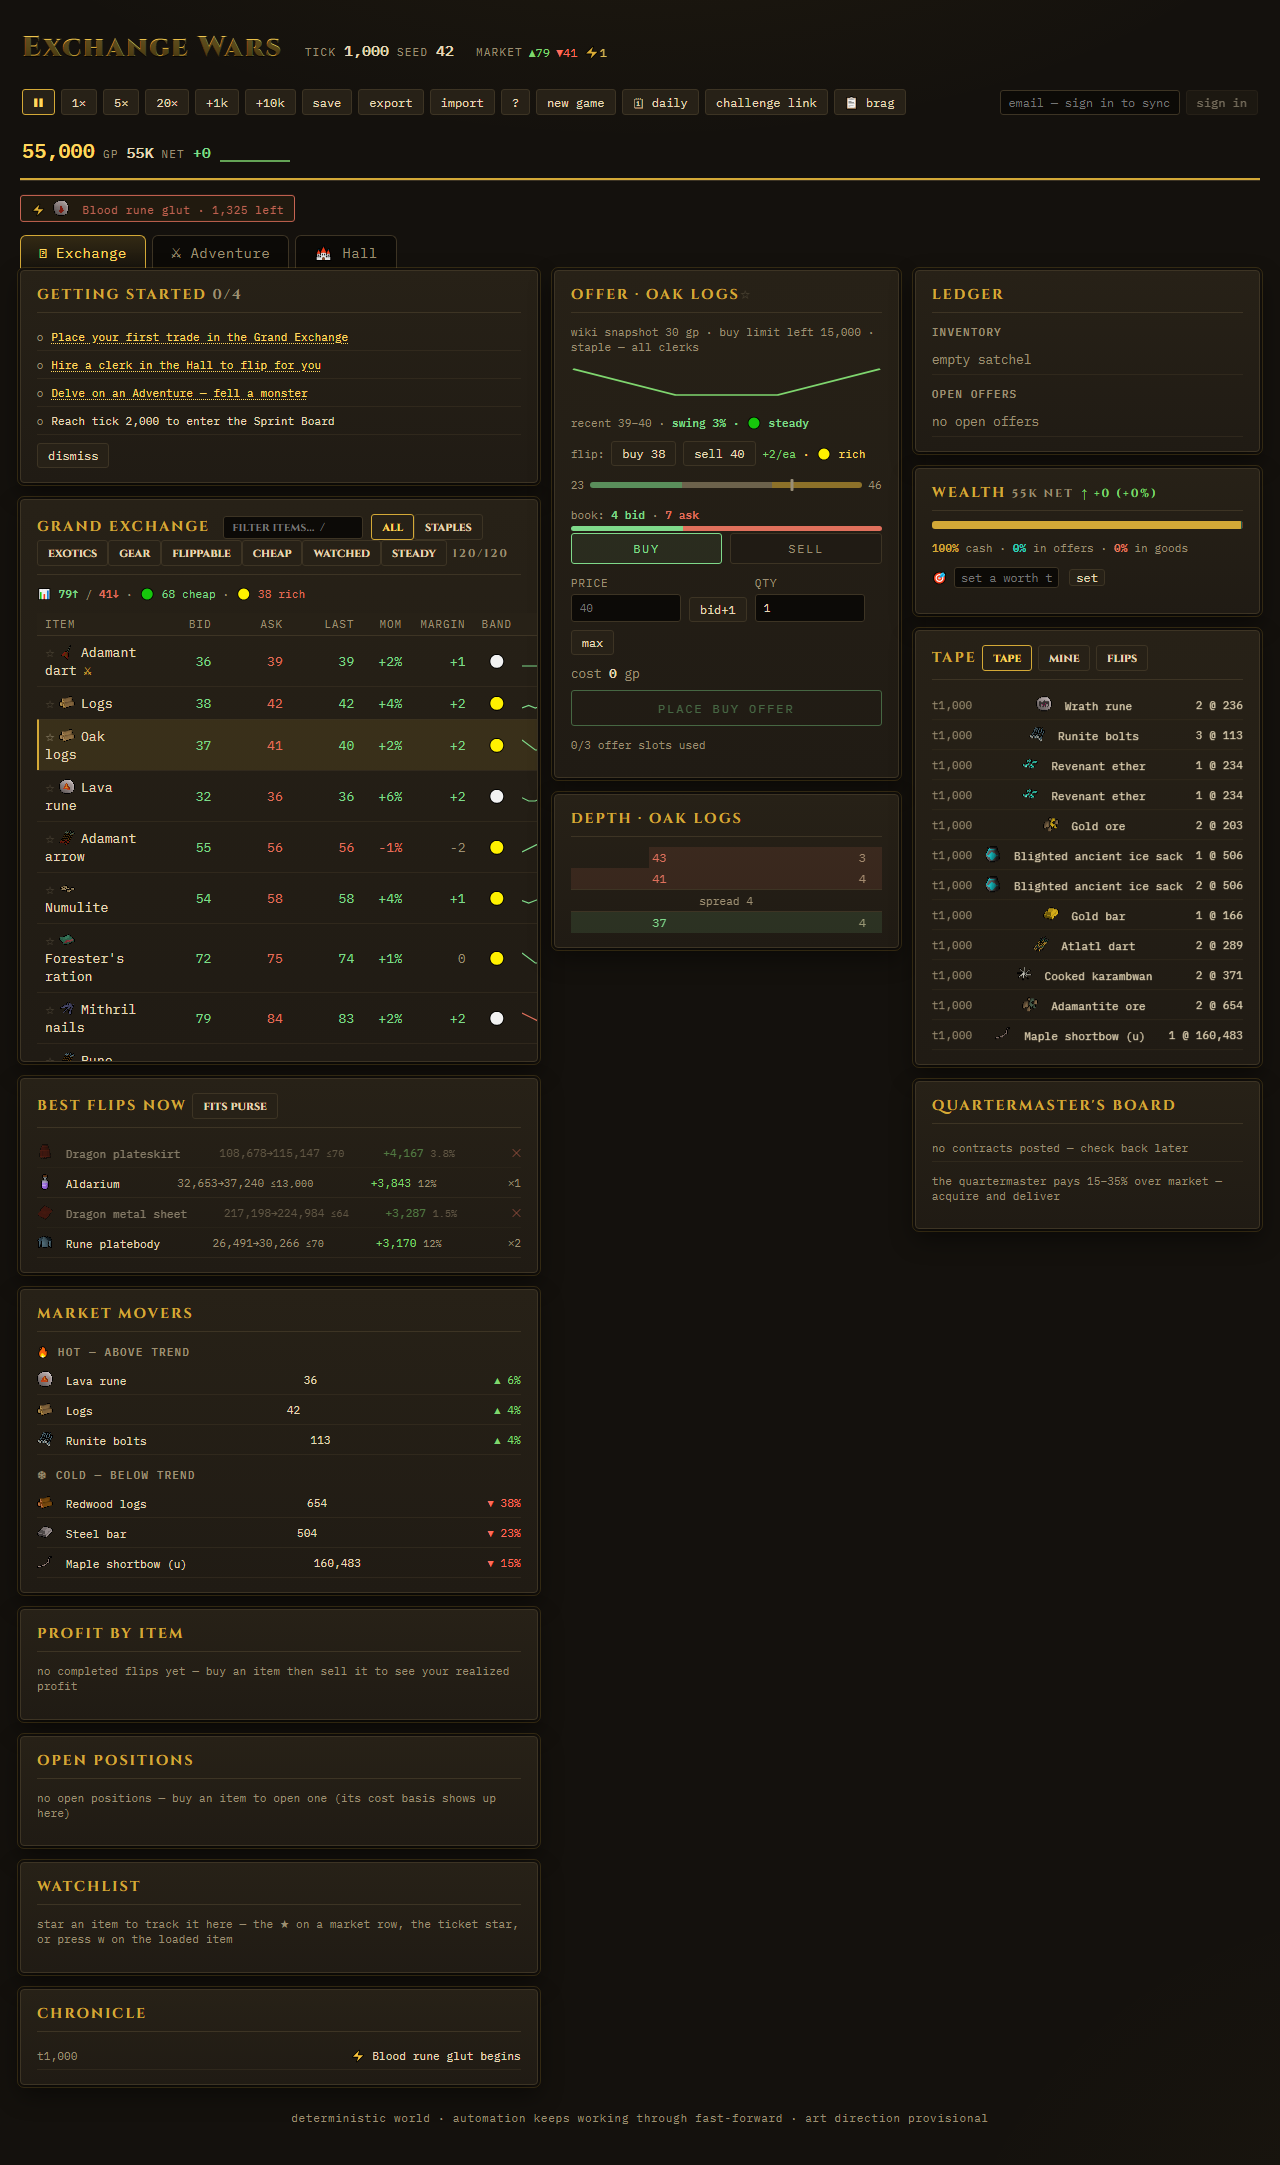
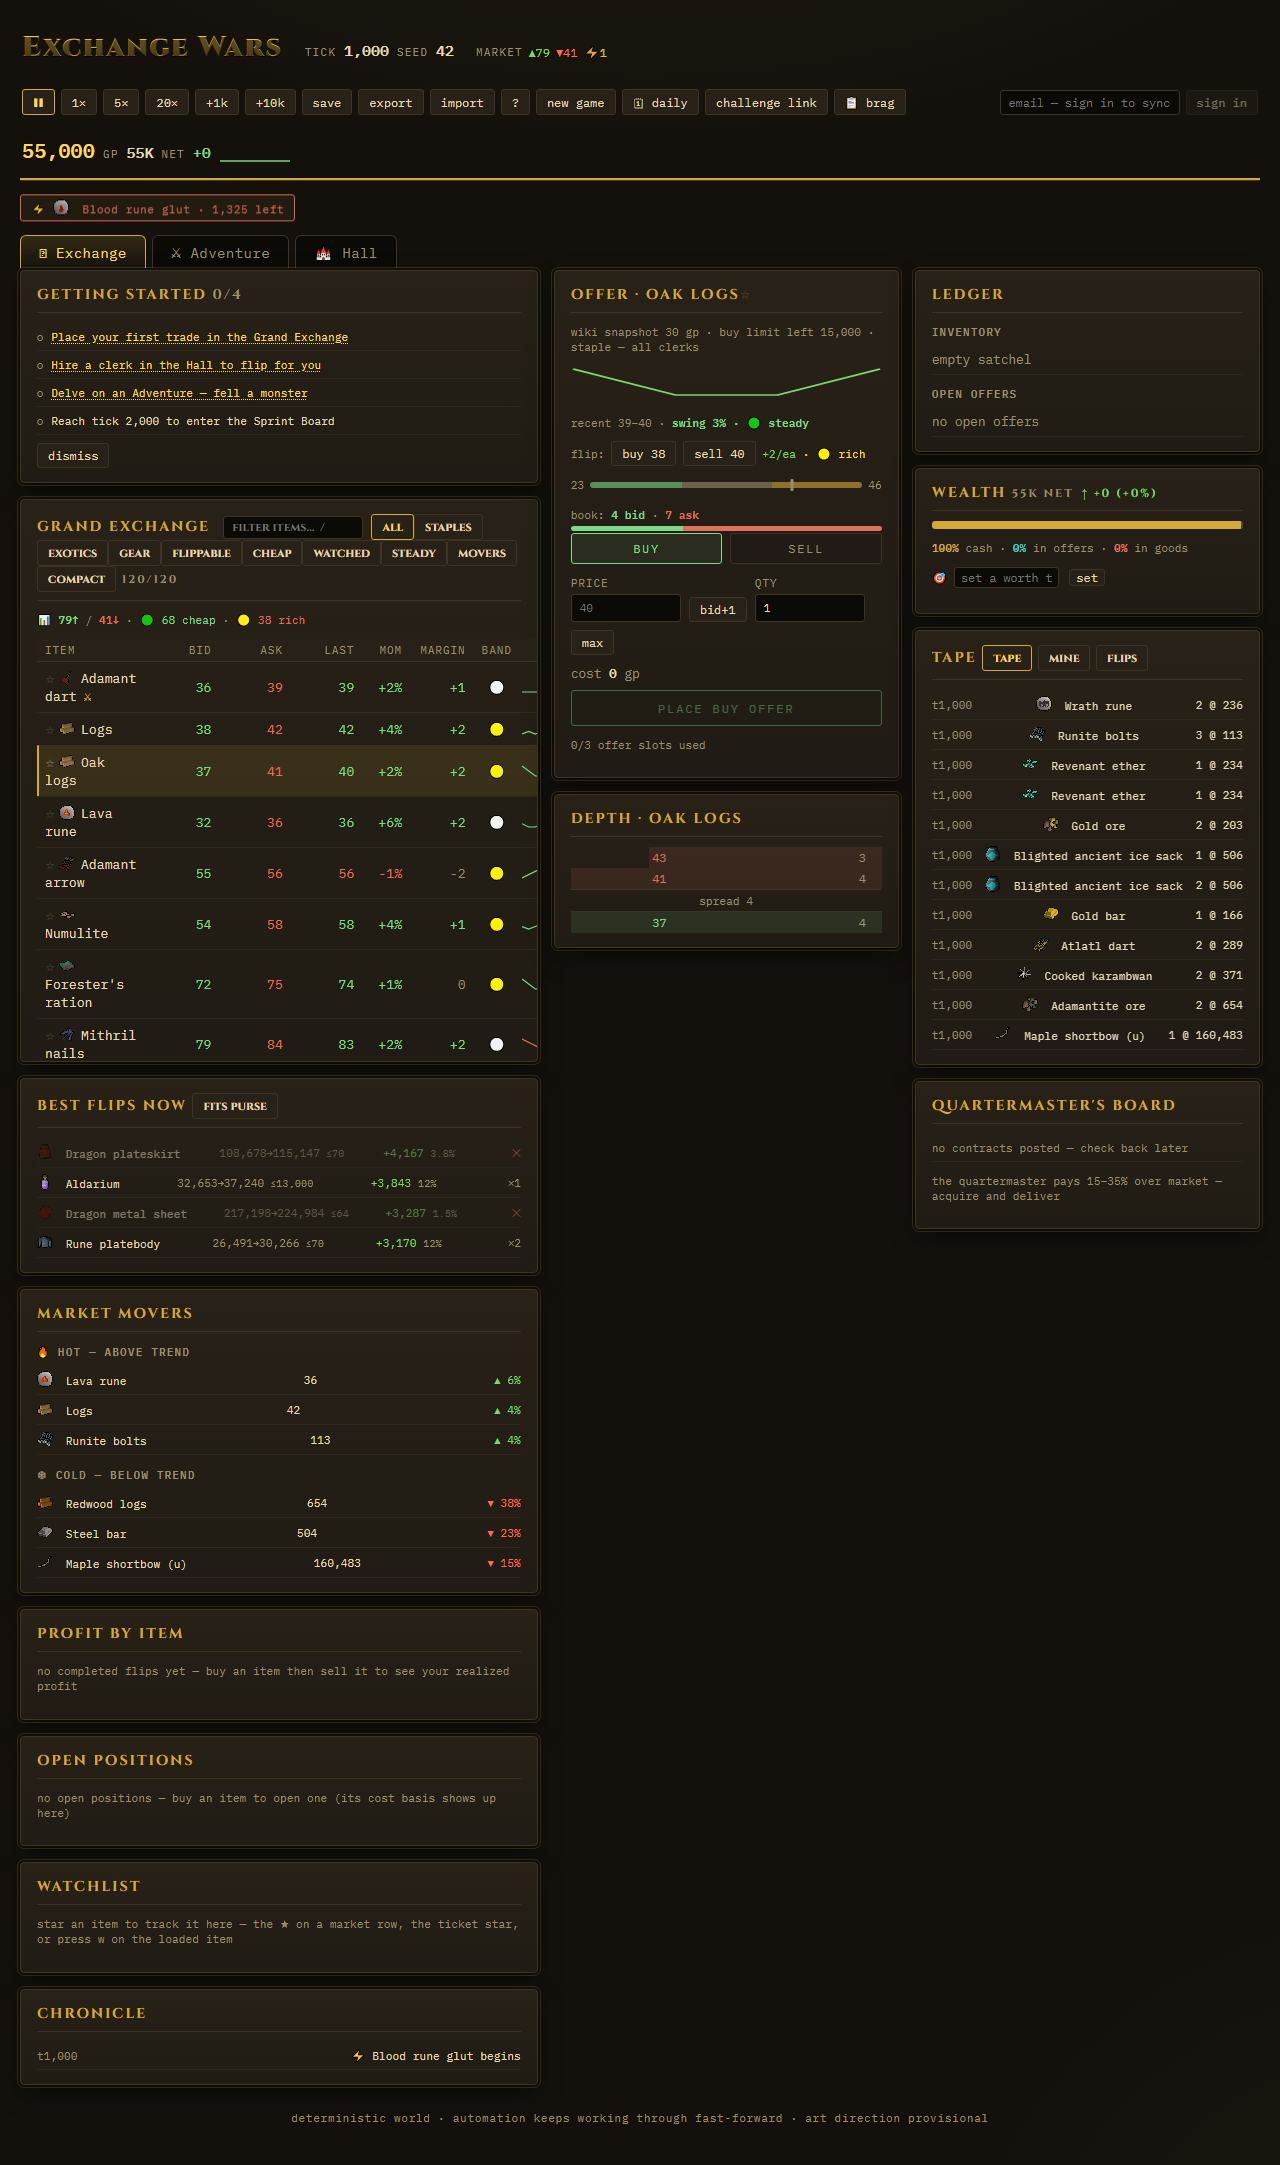
feat(ui): honest 'cash out now' liquidation value on Open Positions
PositionsPanel marked value + paper P&L at LAST price, but you can't sell N
units AT the mark -- dumping a holding walks DOWN the bids (bidWalk), nets less
after the 2% tax and slippage, and may not fill (a thin book runs dry). So the
'value' header overstated the realizable exit; a player reading 'value 1.3M' who
could only cash out ~1.0M now is allocating on a soft number.

liquidateNow(game, positions) = { net, units, sold } sums each holding's bidWalk
net (per-fill tax + own-order skip, verified 18p). PositionsPanel header now shows
'cash out now ~X' with a slippage/tax tooltip and a '(only S/U would fill)' note
when bids run dry. Worst-case no-refill snapshot -- the conservative fire-sale
floor; the tooltip notes patient selling does better. Third 'displayed value
flatters reality' fix this session (cf. 19e forecast, 18w realized P&L).

Phase: 19j (Brick 296) -- Done condition met: yes

Gates: typecheck clean; UI 469 (+3); e2e 13

diff --git a/packages/ui/test/app.test.tsx b/packages/ui/test/app.test.tsx
@@ -81,6 +81,7 @@ import {
   momentum,
   bookFromFills,
   emptyTradeBook,
+  liquidateNow,
   HUMAN_START_GP,
   importSaveString,
   loadGame,
@@ -2280,6 +2281,38 @@ describe('UI shell', () => {
     expect(w.net).toBe(98); // per-fill: 0 tax each. On the 98 total it'd be floor(98·.02)=1 → 97. Per-fill matches paySeller.
   });
 
+  it('liquidateNow sums the honest bid-walk net across every held position (19j)', () => {
+    const game = {
+      playerId: 0,
+      world: {
+        books: {
+          shark: { buys: [
+            { agentId: 9, price: 100, remaining: 3 }, // 3@100 = 300, tax 6 → 294
+            { agentId: 9, price: 90, remaining: 5 }, // then 2@90 = 180, tax floor(3.6)=3 → 177
+          ] },
+          bones: { buys: [{ agentId: 9, price: 50, remaining: 10 }] }, // 4@50 = 200, tax 4 → 196
+        },
+      },
+    } as unknown as Game;
+    const liq = liquidateNow(game, [{ itemId: 'shark', units: 5 }, { itemId: 'bones', units: 4 }]);
+    expect(liq).toEqual({ net: 471 + 196, units: 9, sold: 9 }); // 294+177=471 shark; 196 bones
+  });
+
+  it('liquidateNow caps at available bid depth (sold < units) and ignores no-bid items (19j)', () => {
+    const game = {
+      playerId: 0,
+      world: {
+        books: {
+          shark: { buys: [{ agentId: 9, price: 100, remaining: 3 }] }, // only 3 bid for a 10-unit lot
+          dust: { buys: [] }, // no bids at all → nothing fills
+        },
+      },
+    } as unknown as Game;
+    const liq = liquidateNow(game, [{ itemId: 'shark', units: 10 }, { itemId: 'dust', units: 7 }]);
+    expect(liq).toEqual({ net: 294, units: 17, sold: 3 }); // 3@100 net 294; dust contributes 0 net/sold but counts units
+    expect(liquidateNow(game, [])).toEqual({ net: 0, units: 0, sold: 0 });
+  });
+
   it('"sell the spoils" dumps loot but keeps your gear', () => {
     const game = newGame(42);
     for (let i = 0; i < 200; i++) tickWorld(game.world); // populate NPC bids so items are sellable
@@ -3280,6 +3313,19 @@ describe('UI shell', () => {
     expect(screen.getAllByText(/\+300/).length).toBeGreaterThan(0); // row + header paper total
     fireEvent.click(screen.getByText(FIRST.name));
     expect(onSelect).toHaveBeenCalledWith(FIRST.id);
+  });
+
+  it('PositionsPanel shows the honest "cash out now" liquidation value from the bids (19j)', () => {
+    const game = newGame(42);
+    game.tradeBook = bookFromFills([{ tick: 0, itemId: FIRST.id, side: 'buy', qty: 10, price: 100 }], 0.02);
+    // inject a real bid so liquidateNow can walk it; agentId ≠ player so it isn't skipped
+    const book = game.world.books[FIRST.id]!;
+    book.buys.push({ id: 1, tick: 0, agentId: game.playerId + 1, itemId: FIRST.id, side: 'buy', price: 120, qty: 10, remaining: 10, escrowGp: 1200 });
+    book.buys.sort((a, b) => b.price - a.price || a.tick - b.tick || a.id - b.id);
+    const view = { markets: [{ itemId: FIRST.id, lastPrice: 130 }] } as unknown as PlayerView; // mark 130 → value 1,300
+    render(<PositionsPanel game={game} view={view} items={DEFAULT_ITEMS} onSelect={() => {}} />);
+    // 10 units dumped @ bid 120 = 1,200 gross − floor(1,200·0.02)=24 tax → 1,176 net, BELOW the 1,300 mark
+    expect(screen.getByText(/cash out now/)).toBeTruthy();
   });
 
   it('PositionsPanel tags a holding by its value band (rich = ripe to offload)', () => {

diff --git a/packages/ui/src/components/PositionsPanel.tsx b/packages/ui/src/components/PositionsPanel.tsx
@@ -1,7 +1,7 @@
 import type { ItemDef, PlayerCommand, PlayerView } from '@exchange-wars/engine';
 import { useState } from 'react';
 import type { Game } from '../game';
-import { bandPosition, fmtCompact, heldPositions, positionConcentration, underwaterSummary, valueBand } from '../game';
+import { bandPosition, fmtCompact, heldPositions, liquidateNow, positionConcentration, underwaterSummary, valueBand } from '../game';
 import { ItemIcon } from './Icon';
 
 /** Distinguishable, theme-fitting segment colours for the allocation bar. */
@@ -54,6 +54,9 @@ export function PositionsPanel({
   const shown = ordered.slice(0, limit);
   const totalValue = positions.reduce((s, p) => s + p.value, 0);
   const totalPaper = positions.reduce((s, p) => s + p.unrealized, 0);
+  // The HONEST exit value: marking at last price overstates what you'd actually cash out, because
+  // dumping every holding walks down the bids (tax + slippage, and a thin book may not absorb it all).
+  const liq = liquidateNow(game, positions);
   const conc = positionConcentration(positions);
   const under = underwaterSummary(positions);
   const topName = conc.weights[0] ? (names.get(conc.weights[0].itemId) ?? conc.weights[0].itemId) : '';
@@ -72,6 +75,18 @@ export function PositionsPanel({
               {totalPaper >= 0 ? '+' : ''}
               {fmtCompact(totalPaper)}
             </b>
+          </span>
+        )}
+        {positions.length > 0 && liq.units > 0 && (
+          <span
+            className="dim small cashout"
+            title={`what you'd actually receive dumping every position into the bids right now — bid-walk net after the 2% tax and slippage (the mark prices each unit at last trade, which you can't get for the whole lot). Bids refill over time, so patient selling does better.${
+              liq.sold < liq.units ? ` Only ${liq.sold.toLocaleString('en-US')} of ${liq.units.toLocaleString('en-US')} units would fill now — the rest has no bids.` : ''
+            }`}
+          >
+            {' '}
+            · cash out now ≈{fmtCompact(liq.net)}
+            {liq.sold < liq.units && <span className="pct down"> ⚠</span>}
           </span>
         )}
       </h2>

diff --git a/packages/ui/src/game.ts b/packages/ui/src/game.ts
@@ -1965,6 +1965,33 @@ export function bidWalk(
   return sold > 0 ? { qty: sold, floor, gp, net } : null;
 }
 
+/**
+ * What the WHOLE satchel would really cash out for if you market-sold every open position into the
+ * resting bids right now — each holding walked DOWN its bid book via `bidWalk` (per-fill tax, own
+ * orders skipped), summed. The honest counterpart to PositionsPanel's mark-based `value`: the mark
+ * prices each unit at last trade, but you can't sell N units AT the mark — a sizeable holding in a
+ * thin book walks the bids and nets less (tax + slippage), and `sold < units` when the bids run dry
+ * before absorbing the lot. A worst-case snapshot (bids don't refill mid-dump — the conservative
+ * "fire-sale now" floor; patient selling beats it). Pure (reads the world for display).
+ */
+export function liquidateNow(
+  game: Game,
+  positions: { itemId: string; units: number }[],
+): { net: number; units: number; sold: number } {
+  let net = 0;
+  let units = 0;
+  let sold = 0;
+  for (const p of positions) {
+    units += p.units;
+    const w = bidWalk(game, p.itemId, p.units);
+    if (w) {
+      net += w.net;
+      sold += w.qty;
+    }
+  }
+  return { net, units, sold };
+}
+
 const SAMPLE_EVERY_TICKS = 50;
 const SAMPLE_CAP = 240;
 

diff --git a/FINDINGS.md b/FINDINGS.md
@@ -1,5 +1,9 @@
 # Findings
 
+## Phase 19j — honest "cash out now" value on Open Positions (mark overstates exit) (2026-06-13)
+
+322. **Mark-to-last flatters the satchel; the realizable exit is the bid-walk net.** PositionsPanel showed "value" and "paper P&L" marking every unit at last trade — but you can't sell N units AT the mark: dumping a holding walks DOWN the bids (`bidWalk`), nets less after the 2% tax and slippage, and may not even fill (a thin book runs dry before absorbing the lot). A player reading "value 1.3M" who could only cash out ~1.0M right now is allocating/exiting on a soft number. Added `liquidateNow(game, positions)` = `{ net, units, sold }` summing each holding's `bidWalk` net, and a header "cash out now ≈X" (⚠ + "only S/U would fill" when bids run dry). Third instance of the SAME theme this session: a displayed number flatters reality — 19e (forecast under-counted incoming damage), 18w (realized P&L over-counted by flooring tax per-unit), now 19j (paper value > cashable value). Lessons: (1) **whenever the UI prices a quantity at a single reference (last/mid/mark), ask what selling the WHOLE quantity actually clears** — the answer walks the book and is always lower; surfacing both makes paper-vs-real explicit. (2) **reuse the verified primitive at the new scale** — `bidWalk` (per-fill tax + own-order skip, verified 18p) was already trusted for one item in the ticket; `liquidateNow` is just the sum across positions, so the honest figure inherits the verified tax math for free. (3) **frame the conservative read honestly** — it's a no-refill snapshot ("fire-sale now"), so the tooltip says patient selling does better; don't present a floor as a forecast. UI-only, display read of `world.books`, no engine change → no redeploy. Brick 296.
+
 ## Phase 19i — one-click "reprice to lead" on a queued resting offer (2026-06-13)
 
 321. **A two-command action is safe through a synchronous, logged dispatcher — but only if the SECOND command can't fail after the first commits.** 19h diagnosed queue position; this is the action — a "reprice {target}" chip that cancels the offer and re-places it at the queue-leading price. Because `command` (App:733) is synchronous (apply + push to commandLog + re-render), firing `cancel` then `place` in one click lands both in the log in order, so `replayRun` re-runs them identically — determinism survives a compound UI action. The hazard isn't the sequencing, it's the FAILURE ATOMICITY: a BUY re-places at a HIGHER price (to outbid), needing more escrow than the cancel refunds, so an unaffordable buy would cancel the order and then fail to place — silently dropping the player's position with nothing to show for it. There's no transaction to roll back. Fix: gate the BUY chip on `(target − price)·remaining ≤ view.gp` so the second command is guaranteed to succeed before the first fires; a SELL re-escrows the same item qty, so it's unconditionally safe. Lessons: (1) **when a UI action chains mutations, ask "if step 2 rejects, what state did step 1 leave?"** — here the answer was "no order at all," so step 2 had to be pre-validated, not just attempted. (2) **reuse the engine's sorted book for the action target too** (`repriceTarget` = `sameSide[0].price ± 1` when you're not index 0) — same authoritative-by-construction trick as 19h, no comparator re-implementation. (3) **show the consequence on the control** — the target price is on the button ("reprice 149"), so an undercut-into-thinner-margin is an informed click, which let me defer a break-even floor (noted in NEXT_STEPS) without shipping a footgun. (4) tested the click by capturing `onCommand` with `vi.fn()` and asserting the exact two-call sequence — the determinism guarantee is in the ORDER, so the test pins the order. UI-only, mutations via applyCommand, no engine change → no redeploy. Brick 295.

diff --git a/NEXT_STEPS.md b/NEXT_STEPS.md
@@ -32,6 +32,7 @@ Through brick 59 (10g): RPG layer (8 regions, stats/xp, brews, bounties, sellswo
 - **Tier-3 clerk "trades events too" — DROPPED**: clerks farm neither events nor exotics (FINDINGS #27/#35).
 
 ## Quality
+- **Feature — honest "cash out now" on Open Positions (19j, brick 296):** `liquidateNow(game, positions)` = `{ net, units, sold }` sums each holding's `bidWalk` net (per-fill tax + own-order skip, verified 18p) → PositionsPanel header shows "cash out now ≈X" (⚠ "only S/U would fill" when bids run dry). The honest exit vs the mark-based "value" (which overstates: you can't sell N units AT last price — dumping walks down the bids). 3rd "displayed value flatters reality" find this session (cf. 19e forecast, 18w realized P&L). UI-only display read, no redeploy.
 - **Feature — one-click reprice to lead (19i, brick 295):** `repriceTarget(world, order)` = the price that jumps a queued offer to the front (`sameSide[0].price ± 1` when not index 0, null when leading/off-book/sell-below-1). PlayerPanel shows a "reprice {target}" chip beside abort that fires `cancel` then `place` at the target (both logged → replay-consistent). BUY gated on re-escrow affordability so it never cancels-then-fails; SELL always safe. **Follow-up (optional):** a break-even floor on sell undercuts (needs cost basis from the TradeBook) — currently the target price shows on the button so the undercut is an informed click, matching manual-placement freedom. Repeated/auto-undercut deliberately out (one tap = one reprice).
 - **Feature — queue position on resting offers (19h, brick 294):** `restingQueue(world, order)` = `{ ahead, gap }` — `ahead` is the order's index in the engine-sorted book (types.ts:92-95, so index = orders that fill before it, authoritative by construction); `gap` is the distance to the opposing best. PlayerPanel shows "· top of book" / "· N ahead" per resting offer (tooltip carries the gap + "undercut to jump the queue"). Immediate price-based diagnosis vs the lagging 500-tick stale flag (kept — complementary). UI-only display read, no redeploy.
 - **Feature — live survivability read mid-dive (19g, brick 293):** carried the 19f `survivableKills` synthesis to the push-vs-extract moment — a second line in the live push-read (ExpeditionPanel) reads "≈N more kills before you'd fall · ≈M with food" at CURRENT hp, scaled by remaining packed food. Reuses the in-scope current-hp forecast `f` + `packHeal`; no new math. Sits between the push-read (odds) and death-stakes (consequence). UI-only, no redeploy.
